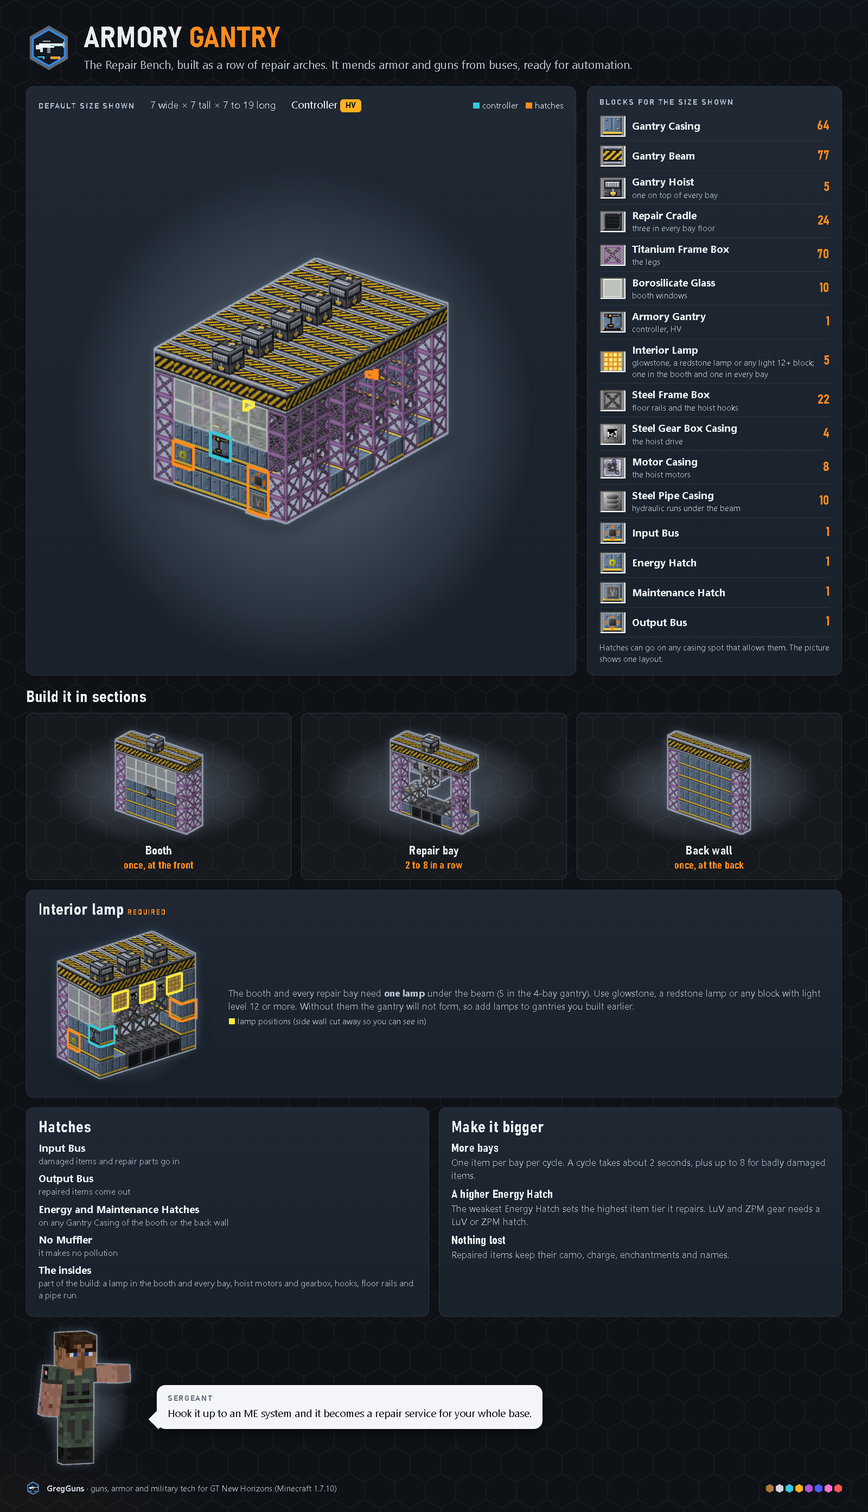
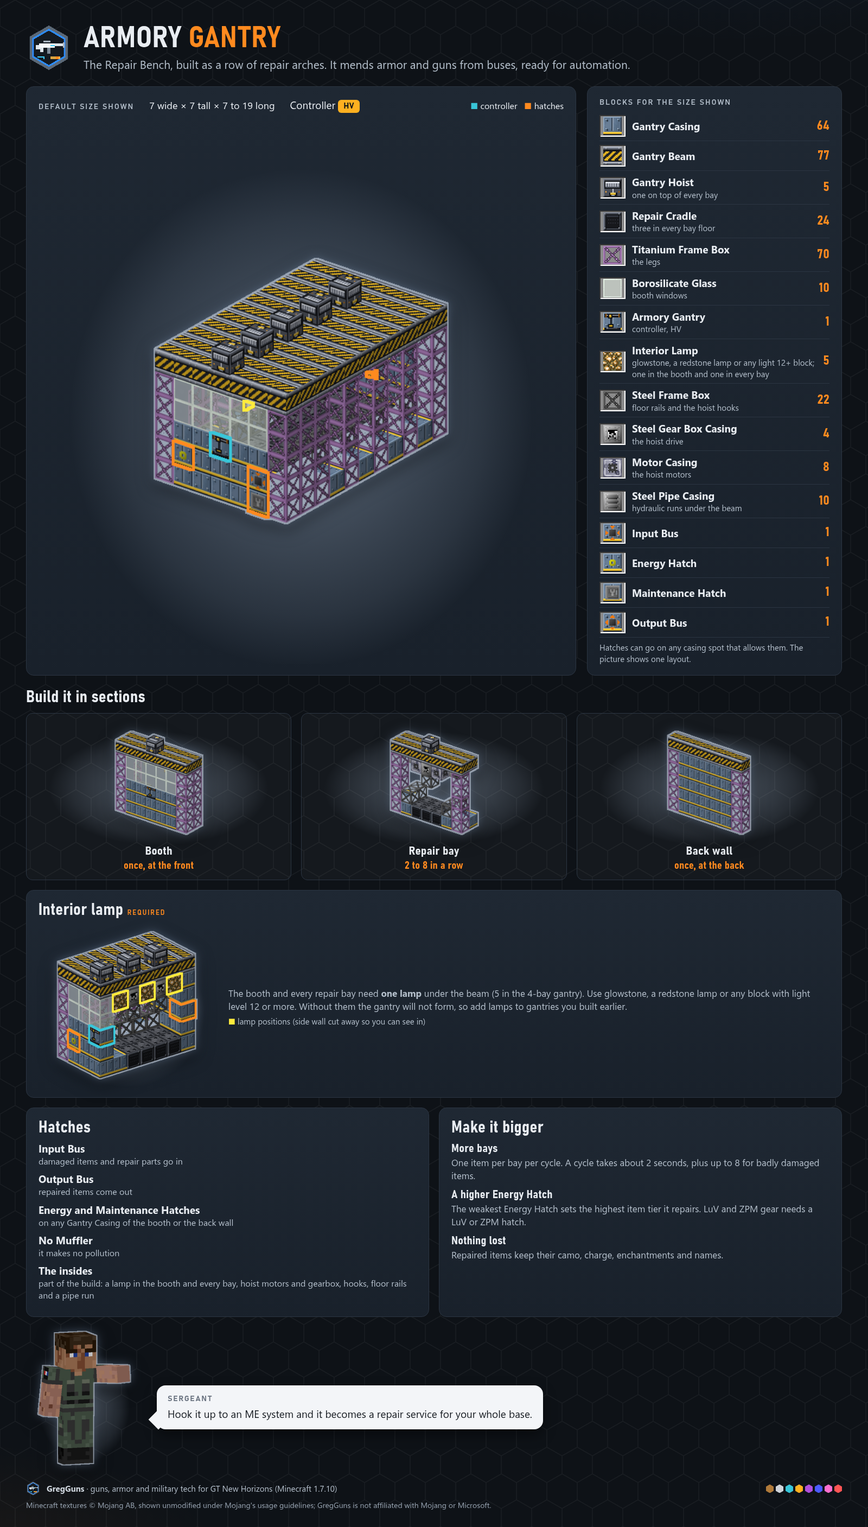
M9: real vanilla textures on the guide sheets (recipes, enemies, Ammunition Works, Armory Gantry), read from the vanilla jar at build time

diff --git a/tools/asset-gen/infographics/vanilla.py b/tools/asset-gen/infographics/vanilla.py
@@ -1,140 +1,70 @@
-"""Simple 16x16 icons for the vanilla items recipes use (stone, logs, wool, a piston...).
+"""Minecraft's own textures for the guide sheets, read from the vanilla 1.7.10 client jar at build time.
 
-Minecraft's own textures are Mojang's, so the infographics never show them. These are our own flat drawings: enough
-to tell the items apart in a crafting grid, each one labeled on the sheet.
+The rule for Minecraft content is to follow Mojang's usage guidelines, not to avoid it (CONTRIBUTING, ICBM decision
+D55). The jar is never copied into the repo: each texture is extracted into the git-ignored build cache and shown
+unmodified, credited on the sheet that uses it (docs/assets/CREDITS.md). Looked up in this order: $GREGGUNS_MC_JAR,
+a Minecraft 1.7.10 client jar in the reference pack or in a Prism Launcher install, then the Gradle cache's
+mc-vanilla/1.7.10/client.jar that the mod's own build downloads.
 """
 
 from __future__ import annotations
 
+import os
+import zipfile
+from functools import lru_cache
 from pathlib import Path
 
 import numpy as np
 from PIL import Image
 
+import gt
 from render3d import REPO
 
 OUT = REPO / "build/infographics/vanilla"
 
-
-def _noise(seed, base, spread, shape=(16, 16)):
-    rng = np.random.default_rng(seed)
-    a = np.zeros(shape + (4,), np.int16)
-    a[..., :3] = np.array(base) + rng.integers(-spread, spread + 1, shape + (1,))
-    a[..., 3] = 255
-    return a
+# Prism keeps the jar under libraries/com/mojang/minecraft/1.7.10/; a Gradle build keeps its own copy.
+_JAR_GLOBS = ("libraries/**/minecraft-1.7.10-client.jar", "libraries/**/1.7.10.jar")
+_PRISM = Path.home() / ".local/share/PrismLauncher"
+_GRADLE = Path.home() / ".gradle/caches/retro_futura_gradle/mc-vanilla/1.7.10/client.jar"
 
 
-def _blank():
-    return np.zeros((16, 16, 4), np.int16)
+def _candidate_jars():
+    if os.environ.get("GREGGUNS_MC_JAR"):
+        yield Path(os.environ["GREGGUNS_MC_JAR"])
+    for d in gt._reference_dirs():
+        for g in _JAR_GLOBS:
+            yield from sorted(d.glob(f"*/{g}"))
+    yield from sorted(_PRISM.glob("libraries/com/mojang/minecraft/1.7.10/*.jar"))
+    yield _GRADLE
 
 
-def _put(a, ys, xs, rgb):
-    a[ys, xs, :3] = rgb
-    a[ys, xs, 3] = 255
+@lru_cache(maxsize=1)
+def _jar() -> zipfile.ZipFile:
+    for j in _candidate_jars():
+        if j.is_file():
+            return zipfile.ZipFile(j)
+    raise SystemExit("Minecraft 1.7.10 client jar not found. Set GREGGUNS_MC_JAR=<path to the jar>, or run "
+                     "./gradlew setupDecompWorkspace once so the Gradle cache holds mc-vanilla/1.7.10/client.jar.")
 
 
-def _stone():
-    return _noise(1, (160, 160, 160), 12)
+def texture(path: str) -> Path:
+    """A vanilla texture such as "blocks/glowstone" or "entity/zombie_pigman" as a PNG in the build cache, byte for
+    byte what the jar holds."""
+    p = OUT / "jar" / f"{path}.png"
+    if not p.exists():
+        p.parent.mkdir(parents=True, exist_ok=True)
+        p.write_bytes(_jar().read(f"assets/minecraft/textures/{path}.png"))
+    return p
 
 
-def _cobblestone():
-    a = _noise(2, (120, 120, 120), 14)
-    for y, x0, x1 in ((3, 0, 7), (3, 10, 16), (8, 3, 12), (12, 0, 5), (12, 9, 16)):
-        _put(a, y, slice(x0, x1), (70, 70, 70))
-    for x, y0, y1 in ((7, 0, 4), (10, 3, 9), (3, 8, 13), (12, 8, 13), (5, 12, 16)):
-        _put(a, slice(y0, y1), x, (70, 70, 70))
-    return a
-
-
-def _log():
-    a = _noise(3, (104, 80, 48), 8)
-    for x in (2, 6, 9, 13):
-        _put(a, slice(0, 16), x, (72, 54, 30))
-    return a
-
-
-def _wool():
-    return _noise(4, (232, 232, 228), 9)
-
-
-def _leather():
-    a = _blank()
-    for y in range(2, 14):
-        w = 6 - abs(y - 8) // 2
-        _put(a, y, slice(8 - w, 8 + w), (150, 88, 48))
-    _put(a, slice(4, 12), 8, (120, 66, 34))
-    return a
-
-
-def _string():
-    a = _blank()
-    for x in range(1, 15):
-        y = int(8 + 3 * np.sin(x / 2.2))
-        _put(a, y, x, (240, 240, 240))
-        _put(a, y + 1, x, (200, 200, 200))
-    return a
-
-
-def _slimeball():
-    a = _blank()
-    yy, xx = np.mgrid[0:16, 0:16]
-    m = (yy - 8.5) ** 2 + (xx - 7.5) ** 2 <= 30
-    a[m, :3] = (110, 190, 90)
-    a[m, 3] = 255
-    _put(a, slice(5, 7), slice(5, 7), (180, 240, 160))
-    return a
-
-
-def _flint_and_steel():
-    a = _blank()
-    for i in range(8):
-        _put(a, 14 - i, slice(1 + i, 4 + i), (205, 205, 212))  # the steel striker
-        _put(a, 15 - i, slice(1 + i, 3 + i), (120, 120, 128))
-    _put(a, slice(2, 9), slice(9, 15), (40, 40, 46))  # the flint
-    _put(a, slice(3, 5), slice(10, 13), (100, 100, 108))
-    return a
-
-
-def _piston():
-    a = _noise(5, (118, 118, 118), 8)
-    a[0:5, :, :3] = np.array((170, 136, 84)) + np.random.default_rng(6).integers(-8, 9, (5, 16, 1))
-    _put(a, slice(5, 16), slice(6, 10), (90, 90, 90))
-    return a
-
-
-def _crafting_table():
-    a = _noise(7, (150, 110, 62), 8)
-    a[0:4, :, :3] = (110, 78, 42)
-    _put(a, slice(6, 14), 4, (90, 90, 96))  # a saw and a hammer hanging on the front
-    _put(a, 6, slice(9, 14), (90, 90, 96))
-    _put(a, slice(6, 13), 11, (110, 78, 42))
-    return a
-
-
-def _tnt():
-    a = _noise(9, (200, 52, 44), 10)
-    a[6:10, :, :3] = (226, 222, 214)  # the white label band
-    _put(a, slice(7, 9), slice(3, 5), (40, 40, 44))  # a few letters
-    _put(a, slice(7, 9), slice(7, 9), (40, 40, 44))
-    _put(a, slice(7, 9), slice(11, 13), (40, 40, 44))
-    return a
-
-
-ICONS = {"tnt": _tnt, "stone": _stone, "cobblestone": _cobblestone, "log": _log, "wool": _wool, "leather": _leather,
-         "string": _string, "slimeball": _slimeball, "flint_and_steel": _flint_and_steel, "piston": _piston,
-         "crafting_table": _crafting_table}
-
-
-BLOCKS = {"tnt", "stone", "cobblestone", "log", "wool", "piston", "crafting_table"}
+# Each icon is one jar texture. The log shows its oak bark and the wool its white; the piston, TNT and crafting table
+# show a side, the way their item icons are read at a glance.
+TEXTURES = {"tnt": "blocks/tnt_side", "stone": "blocks/stone", "cobblestone": "blocks/cobblestone",
+            "log": "blocks/log_oak", "wool": "blocks/wool_colored_white", "leather": "items/leather",
+            "string": "items/string", "slimeball": "items/slimeball", "flint_and_steel": "items/flint_and_steel",
+            "piston": "blocks/piston_side", "crafting_table": "blocks/crafting_table_front"}
 
 
 def icon(name: str) -> Path:
-    """One of ICONS as a 16x16 PNG. Blocks get a dark edge so they stand off a gray inventory slot."""
-    OUT.mkdir(parents=True, exist_ok=True)
-    p = OUT / f"{name}.png"
-    a = ICONS[name]()
-    if name in BLOCKS:
-        for edge in (np.s_[0, :], np.s_[15, :], np.s_[:, 0], np.s_[:, 15]):
-            a[edge][..., :3] = (a[edge][..., :3] * 0.45).astype(np.int16)
-    Image.fromarray(np.clip(a, 0, 255).astype(np.uint8), "RGBA").save(p)
-    return p
+    """One of TEXTURES as its 16x16 vanilla PNG, unmodified."""
+    return texture(TEXTURES[name])

diff --git a/tools/asset-gen/infographics/kit.py b/tools/asset-gen/infographics/kit.py
@@ -20,6 +20,7 @@ from PIL import Image
 
 import blocks as B
 import render3d as R
+import vanilla
 
 REPO = R.REPO
 ASSETS = R.ASSETS
@@ -148,40 +149,13 @@ def mob(model: str, skin: str, pose=None, gun_name=None, yaw=-30, pitch=10, h=42
 
 
 def bone_skin() -> Path:
-    """A plain bone skin for the Skeleton Soldier, which wears the vanilla skeleton texture in game. We don't render
-    Mojang's art, so this is a flat bone color with simple eye sockets on the 64x32 biped layout."""
-    p = TEXCACHE / "skeleton_bone.png"
-    if not p.exists():
-        TEXCACHE.mkdir(parents=True, exist_ok=True)
-        rng = np.random.default_rng(7)
-        a = np.empty((32, 64, 4), np.uint8)
-        a[..., :3] = np.array([214, 208, 192]) + rng.integers(-10, 10, (32, 64, 1))
-        a[..., 3] = 255
-        a[12:14, 9:11, :3] = a[12:14, 13:15, :3] = (40, 36, 34)  # eye sockets on the face (u 8..16, v 8..16)
-        a[14:15, 11:13, :3] = (90, 84, 76)
-        Image.fromarray(a, "RGBA").save(p)
-    return p
+    """The Skeleton Soldier's skin: the vanilla skeleton texture it wears in game, read from the vanilla jar."""
+    return vanilla.texture("entity/skeleton/skeleton")
 
 
 def pigman_skin() -> Path:
-    """A rotting pig-faced skin for the Zombie Pigman Soldier, which wears the vanilla pigman texture in game. Our own
-    flat drawing on the 64x64 biped layout: pink flesh with green rot, a snout and eyes on the face (u 8..16,
-    v 8..16)."""
-    p = TEXCACHE / "pigman_soldier.png"
-    if not p.exists():
-        TEXCACHE.mkdir(parents=True, exist_ok=True)
-        rng = np.random.default_rng(11)
-        a = np.empty((64, 64, 4), np.uint8)
-        a[..., :3] = np.array([226, 148, 150]) + rng.integers(-12, 12, (64, 64, 1))
-        rot = rng.random((64, 64)) < 0.18
-        a[rot, :3] = (122, 152, 96)
-        a[..., 3] = 255
-        a[8:16, 8:16, :3] = (230, 160, 160)
-        a[11:13, 9:11, :3] = a[11:13, 13:15, :3] = (40, 30, 30)  # eyes
-        a[13:16, 10:14, :3] = (205, 120, 125)  # snout
-        a[14, 11, :3] = a[14, 12, :3] = (90, 50, 55)
-        Image.fromarray(a, "RGBA").save(p)
-    return p
+    """The Zombie Pigman Soldier's skin: the vanilla zombie pigman texture it wears in game, read from the vanilla jar."""
+    return vanilla.texture("entity/zombie_pigman")
 
 
 def accessory(scene, mats, name: str):

diff --git a/tools/asset-gen/infographics/pages_more.py b/tools/asset-gen/infographics/pages_more.py
@@ -6,7 +6,7 @@ import data as D
 import kit as K
 import scenes as S
 from kit import chip, esc, url
-from pages import PAGE_CSS, POINT, arsenal, bubble, getting_started, gti, ico, img, page_doc, slot, tier_var
+from pages import MOJANG_CREDIT, PAGE_CSS, POINT, arsenal, bubble, getting_started, gti, ico, img, page_doc, slot, tier_var
 
 ARMOR = K.ASSETS / "textures/models/armor"
 
@@ -328,7 +328,7 @@ def multiblock(key):
 <div class="card"><h2 style="margin-bottom:6px">Hatches</h2>{hatches}</div>
 <div class="card"><h2 style="margin-bottom:10px">Make it bigger</h2>{grow}</div></div>
 {guide_row(m["tip"], pose=POINT, flip=True, yaw=-20)}"""
-    return page_doc(m["title"], m["sub"], body)
+    return page_doc(m["title"], m["sub"], body, credit=MOJANG_CREDIT if m.get("lamp_text") else "")
 
 
 # ---------------------------------------------------------------- enemies
@@ -495,7 +495,7 @@ def enemies():
     return page_doc("Enemies and <b>loot</b>",
                     "Who shoots back, where you'll meet them, and what they carry and drop. Every faction can be "
                     "switched off in the config.",
-                    body)
+                    body, credit=MOJANG_CREDIT)
 
 
 # ---------------------------------------------------------------- questbook

diff --git a/tools/asset-gen/infographics/scenes.py b/tools/asset-gen/infographics/scenes.py
@@ -15,6 +15,7 @@ import blocks as B
 import gt
 import kit as K
 import render3d as R
+import vanilla
 
 T = B.TEX
 UP, FRONT, BACK, LEFT, RIGHT = (0, 1, 0), (0, 0, -1), (0, 0, 1), (-1, 0, 0), (1, 0, 0)
@@ -109,20 +110,9 @@ HATCH_LABEL = {
 
 
 def lamp_tex():
-    """Our own interior lamp icon (the build accepts glowstone, a redstone lamp or any light level 12+ block, so the
-    picture is a plain lit lamp block, not any game's art)."""
-    from PIL import Image, ImageDraw
-    p = K.TEXCACHE / "interior_lamp.png"
-    if not p.exists():
-        K.TEXCACHE.mkdir(parents=True, exist_ok=True)
-        im = Image.new("RGBA", (16, 16), (214, 150, 40, 255))
-        d = ImageDraw.Draw(im)
-        for cy in range(4):
-            for cx in range(4):
-                c = (255, 236, 150, 255) if (cx + cy) % 2 == 0 else (255, 212, 96, 255)
-                d.rectangle([cx * 4 + 1, cy * 4 + 1, cx * 4 + 3, cy * 4 + 3], fill=c)
-        im.save(p)
-    return p
+    """The interior lamp: vanilla glowstone, read from the vanilla jar (the build also accepts a redstone lamp or any
+    light level 12+ block)."""
+    return vanilla.texture("blocks/glowstone")
 
 
 def natura_tex():

diff --git a/tools/asset-gen/infographics/pages_recipes.py b/tools/asset-gen/infographics/pages_recipes.py
@@ -17,7 +17,7 @@ import kit as K
 import scenes as S
 import vanilla as V
 from kit import chip, esc, url
-from pages import POINT, img, page_doc
+from pages import MOJANG_CREDIT, POINT, img, page_doc
 
 RECIPE_CSS = """
 .slot { position: relative; }
@@ -295,7 +295,7 @@ def recipes():
 {_guide()}"""
     return page_doc("Recipes &middot; <b>Steam and LV</b>",
                     "The crafting chains behind your first guns, ammo and armor. Past LV, NEI shows the way.",
-                    body, extra=RECIPE_CSS)
+                    body, extra=RECIPE_CSS, credit=MOJANG_CREDIT)
 
 
 def _guide():

diff --git a/tools/asset-gen/infographics/pages.py b/tools/asset-gen/infographics/pages.py
@@ -145,6 +145,10 @@ def arsenal(part: int):
     return page_doc(title, sub, body)
 
 
+MOJANG_CREDIT = ("Minecraft textures \u00a9 Mojang AB, shown unmodified under Mojang's usage guidelines; "
+                 "GregGuns is not affiliated with Mojang or Microsoft.")
+
+
 def page_doc(title, sub, body, width=1600, extra="", **kw):
     return K.page(title, sub, body, width=width, extra_css=PAGE_CSS + extra, **kw)
 

diff --git a/docs/assets/CREDITS.md b/docs/assets/CREDITS.md
@@ -20,12 +20,12 @@
 | infographics/ammo-and-magazines.png | Claude (Anthropic) via tools/asset-gen/infographics/build.py | HTML laid out in Python, PNG via Playwright + Edge; 3D renders of the mod's own models, textures and block layouts by tools/asset-gen/infographics/render3d.py; includes GregTech 5 Unofficial textures (hulls, hatches, frames, glass, material icons) read from the pack's GT jar | MIT, except the GregTech textures it shows (LGPL-3.0) | 2026-10-19 |
 | infographics/armor-and-gear.png | Claude (Anthropic) via tools/asset-gen/infographics/build.py | HTML laid out in Python, PNG via Playwright + Edge; 3D renders of the mod's own models, textures and block layouts by tools/asset-gen/infographics/render3d.py; includes GregTech 5 Unofficial textures (hulls, hatches, frames, glass, material icons) read from the pack's GT jar | MIT, except the GregTech textures it shows (LGPL-3.0) | 2026-10-19 |
 | infographics/machines.png | Claude (Anthropic) via tools/asset-gen/infographics/build.py | HTML laid out in Python, PNG via Playwright + Edge; 3D renders of the mod's own models, textures and block layouts by tools/asset-gen/infographics/render3d.py; includes GregTech 5 Unofficial textures (hulls, hatches, frames, glass, material icons) read from the pack's GT jar | MIT, except the GregTech textures it shows (LGPL-3.0) | 2026-10-19 |
-| infographics/multiblock-ammunition-works.png | Claude (Anthropic) via tools/asset-gen/infographics/build.py | HTML laid out in Python, PNG via Playwright + Edge; 3D renders of the mod's own models, textures and block layouts by tools/asset-gen/infographics/render3d.py; includes GregTech 5 Unofficial textures (hulls, hatches, frames, glass, material icons) read from the pack's GT jar; Natura workbench texture, Natura (mDiyo, GTNH), CC BY 3.0, read from the pack's Natura jar at build time (not stored in the repo); the interior lamp is our own drawing | MIT, except the GregTech textures it shows (LGPL-3.0) and the Natura workbench texture (CC BY 3.0) | 2026-10-19 |
-| infographics/multiblock-armory-gantry.png | Claude (Anthropic) via tools/asset-gen/infographics/build.py | HTML laid out in Python, PNG via Playwright + Edge; 3D renders of the mod's own models, textures and block layouts by tools/asset-gen/infographics/render3d.py; includes GregTech 5 Unofficial textures (hulls, hatches, frames, glass, material icons) read from the pack's GT jar; the interior lamp is our own drawing | MIT, except the GregTech textures it shows (LGPL-3.0) | 2026-10-19 |
+| infographics/multiblock-ammunition-works.png | Claude (Anthropic) via tools/asset-gen/infographics/build.py | HTML laid out in Python, PNG via Playwright + Edge; 3D renders of the mod's own models, textures and block layouts by tools/asset-gen/infographics/render3d.py; includes GregTech 5 Unofficial textures (hulls, hatches, frames, glass, material icons) read from the pack's GT jar; Natura workbench texture, Natura (mDiyo, GTNH), CC BY 3.0, read from the pack's Natura jar at build time (not stored in the repo); the interior lamp is Mojang's glowstone texture, read unmodified from the vanilla 1.7.10 client jar at build time (not stored in the repo) and credited in the sheet footer | MIT, except the GregTech textures it shows (LGPL-3.0) and the Natura workbench texture (CC BY 3.0), and Mojang's Minecraft textures it shows (used under Mojang's usage guidelines) | 2026-10-25 |
+| infographics/multiblock-armory-gantry.png | Claude (Anthropic) via tools/asset-gen/infographics/build.py | HTML laid out in Python, PNG via Playwright + Edge; 3D renders of the mod's own models, textures and block layouts by tools/asset-gen/infographics/render3d.py; includes GregTech 5 Unofficial textures (hulls, hatches, frames, glass, material icons) read from the pack's GT jar; the interior lamp is Mojang's glowstone texture, read unmodified from the vanilla 1.7.10 client jar at build time (not stored in the repo) and credited in the sheet footer | MIT, except the GregTech textures it shows (LGPL-3.0), and Mojang's Minecraft textures it shows (used under Mojang's usage guidelines) | 2026-10-25 |
 | infographics/multiblock-rampart.png | Claude (Anthropic) via tools/asset-gen/infographics/build.py | HTML laid out in Python, PNG via Playwright + Edge; 3D renders of the mod's own models, textures and block layouts by tools/asset-gen/infographics/render3d.py; includes GregTech 5 Unofficial textures (hulls, hatches, frames, glass, material icons) read from the pack's GT jar | MIT, except the GregTech textures it shows (LGPL-3.0) | 2026-10-19 |
-| infographics/enemies.png | Claude (Anthropic) via tools/asset-gen/infographics/build.py | HTML laid out in Python, PNG via Playwright + Edge; 3D renders of the mod's own models, textures and block layouts by tools/asset-gen/infographics/render3d.py; includes GregTech 5 Unofficial textures (hulls, hatches, frames, glass, material icons) read from the pack's GT jar; the Skeleton Soldier's and Zombie Pigman Soldier's skins are our own simple drawings (their in-game skins are vanilla) | MIT, except the GregTech textures it shows (LGPL-3.0) | 2026-10-19 |
+| infographics/enemies.png | Claude (Anthropic) via tools/asset-gen/infographics/build.py | HTML laid out in Python, PNG via Playwright + Edge; 3D renders of the mod's own models, textures and block layouts by tools/asset-gen/infographics/render3d.py; includes GregTech 5 Unofficial textures (hulls, hatches, frames, glass, material icons) read from the pack's GT jar; the Skeleton Soldier's and Zombie Pigman Soldier's skins are Mojang's vanilla skeleton and zombie pigman textures, read unmodified from the vanilla 1.7.10 client jar at build time (not stored in the repo) and credited in the sheet footer | MIT, except the GregTech textures it shows (LGPL-3.0), and Mojang's Minecraft textures it shows (used under Mojang's usage guidelines) | 2026-10-25 |
 | infographics/questbook.png | Claude (Anthropic) via tools/asset-gen/infographics/build.py | HTML laid out in Python, PNG via Playwright + Edge; 3D renders of the mod's own models, textures and block layouts by tools/asset-gen/infographics/render3d.py; includes GregTech 5 Unofficial textures (hulls, hatches, frames, glass, material icons) read from the pack's GT jar | MIT, except the GregTech textures it shows (LGPL-3.0) | 2026-10-19 |
-| infographics/recipes-steam-and-lv.png | Claude (Anthropic) via tools/asset-gen/infographics/build.py | HTML laid out in Python, PNG via Playwright + Edge; 3D renders of the mod's own models, textures and block layouts by tools/asset-gen/infographics/render3d.py; includes GregTech 5 Unofficial textures (hulls, machine overlays, component and tool icons, material icons); vanilla items drawn as our own simple icons by tools/asset-gen/infographics/vanilla.py read from the pack's GT jar | MIT, except the GregTech textures it shows (LGPL-3.0) | 2026-10-19 |
+| infographics/recipes-steam-and-lv.png | Claude (Anthropic) via tools/asset-gen/infographics/build.py | HTML laid out in Python, PNG via Playwright + Edge; 3D renders of the mod's own models, textures and block layouts by tools/asset-gen/infographics/render3d.py; includes GregTech 5 Unofficial textures (hulls, machine overlays, component and tool icons, material icons); vanilla ingredient icons are Mojang's textures, read unmodified from the vanilla 1.7.10 client jar at build time by tools/asset-gen/infographics/vanilla.py (not stored in the repo) and credited in the sheet footer | MIT, except the GregTech textures it shows (LGPL-3.0), and Mojang's Minecraft textures it shows (used under Mojang's usage guidelines) | 2026-10-25 |
 | infographics/icbm-warheads.png | Claude (Anthropic) via tools/asset-gen/infographics/build.py (pages_icbm.py) | HTML laid out in Python, PNG via Playwright; 3D renders of the shipped warhead OBJ models (HBM's Nuclear Tech Mod contributors, LGPL-3.0, modified; see warhead_t1 and warhead_t2 above) by tools/asset-gen/infographics/render3d.py; includes GregTech 5 Unofficial textures (hulls, machine overlays, casings, plate icons) read from the pack's GT jar; TNT and Flint and Steel icons are our own drawings; draft sheet stamped "Draft: numbers pending" | MIT, except the NTM warhead art it shows (LGPL-3.0, credited in its footer) and the GregTech textures (LGPL-3.0) | 2026-10-25 |
 
 ## Third-party assets

diff --git a/tools/asset-gen/infographics/README.md b/tools/asset-gen/infographics/README.md
@@ -21,6 +21,8 @@ On Linux, if `./gradlew` is not executable, run `sh ./gradlew`, and point `JAVA_
 
 Needs Pillow, numpy and Playwright. On Windows it drives the Edge that ships with the OS. Elsewhere it uses Playwright's bundled Chromium: run `python -m playwright install chromium` once. The sheets use Segoe UI and Bahnschrift, so install them on Linux too (Arch: the AUR package `ttf-ms-win11-auto`); with them a Linux rebuild matches the committed sheets to within a few percent of pixels. Without them the text falls back to Fira Sans and Fira Sans Condensed, then Noto Sans, and a few lines wrap differently. Never commit font files. GregTech textures come from the GT jar in the extracted reference pack (`reference/gtnh/`, or the main checkout's copy when you're in a worktree). If it's missing, run `python -I tools/gtnh-reference/gtnh_ref.py fetch`.
 
+The vanilla 1.7.10 client jar is found from `$GREGGUNS_MC_JAR`, the reference pack, a Prism Launcher install, or the Gradle cache (`./gradlew setupDecompWorkspace` fills it).
+
 Renders are cached in `build/infographics/r/` by their parameters and a hash of each exported model, so a model change redraws on its own. Delete that folder after you change a texture.
 
 ## Files
@@ -37,7 +39,7 @@ Renders are cached in `build/infographics/r/` by their parameters and a hash of 
 | `data.py` | Player-facing facts: weapons per tier, ammo, magazines |
 | `pages.py`, `pages_more.py` | One function per infographic; `pages_more.PAGES` lists them all |
 | `pages_recipes.py` | The recipes sheet: crafting grids for the hand recipes, machine rows from the exported recipe tables |
-| `vanilla.py` | Our own simple icons for the vanilla items recipes use; Mojang's textures are never shown |
+| `vanilla.py` | Mojang's vanilla textures (recipe ingredient icons, the skeleton and pigman skins, glowstone for the interior lamp), read unmodified from the vanilla 1.7.10 client jar at build time |
 
 ## Writing rules
 
@@ -46,5 +48,5 @@ Renders are cached in `build/infographics/r/` by their parameters and a hash of 
 - Use in-game display names and American spelling.
 - Give every dark model a spotlight (`.spot`, `.wcard .pic`). Every render (`img.r`) gets a light rim so it stands off the dark cards.
 - Guns in a figure's hands use the mod's own third-person lengths, read from `InHandTargets.java`, with the muzzle forward. Turn a gunman side-on so the gun shows; a left-facing one is rendered facing right and mirrored.
-- Render only our own textures and GregTech's. The Skeleton Soldier wears the vanilla skeleton texture in game, so it is drawn with a plain bone skin (`kit.bone_skin()`).
+- Render our own textures, GregTech's and, for Minecraft content, Mojang's real ones, unmodified, from the vanilla jar (`vanilla.texture()`). A sheet that shows them carries the `pages.MOJANG_CREDIT` footer line. Never commit the jar or its textures.
 - License: our art is MIT. The GregTech textures shown are GT5 Unofficial's (LGPL-3.0), credited in `docs/assets/CREDITS.md`.

diff --git a/docs/ROADMAP.md b/docs/ROADMAP.md
@@ -322,6 +322,7 @@ Amended by [0015](design/0015-m9-self-contained-polish.md) and [0018](design/001
     - the abstract interior-lamp markers on the Ammunition Works and Armory Gantry build guides (glowstone, redstone lamp).
 
     Rebuild those sheets and check contrast.
+    - Done on `feat/m9-guide-vanilla-textures` (0.3.3-beta): the recipes, enemies, Ammunition Works and Armory Gantry sheets use the real textures, each with a Mojang credit in its footer. The draft `icbm-warheads` sheet picks the same icons up on its next rebuild.
 - **Fixes from the owner's beta playthrough,** released as `0.3.x-beta`.
 
 **Exit gate:**

diff --git a/.changelogs/unreleased.md b/.changelogs/unreleased.md
@@ -1,3 +1,5 @@
 # Unreleased
 
 Notes for the next release. Fold these into that release's changelog when it is cut.
+
+- Player guides: the recipes, enemies, Ammunition Works and Armory Gantry sheets now show Minecraft's real textures (ingredient icons, the Skeleton and Zombie Pigman Soldier skins, the interior lamp) instead of our stand-ins, credited in each sheet's footer.
